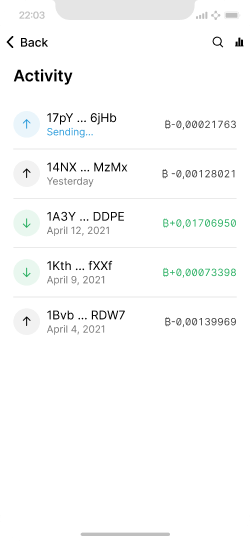
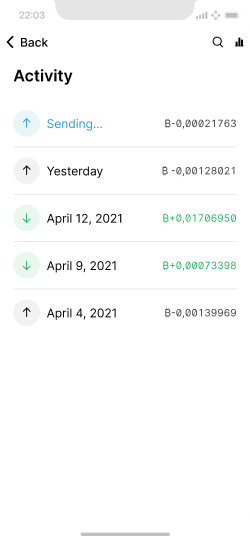
Several tweaks to the activity page
Addressing some feedback in the previous PR for the page, as well as #664 and #660.

- Fixed the link preview image & a link
- Added the page to the Payments section intro page
- Added written design considerations
- Removed payment IDs from the default/fallback design
- Added 2 screens to the search & export paragraph to discuss storing data from invoices, as well as annotation options in payment processing screens

diff --git a/guide/payments/activity.md b/guide/payments/activity.md
@@ -11,10 +11,16 @@ image_base: /assets/images/guide/payments/activity/
 imagesBasics:
     - file: activity
       alt:
-      caption: A purely technical perspective of a transaction list.
+      caption: A minimal transaction list that avoids the display of technical details.
     - file: annotated-activity
       alt:
-      caption: Annotated transactions capture a much richer story for users.
+      caption: If users annotate transactions well, they see much richer history.
+    - file: semi-annotated-activity
+      alt:
+      caption: Unless a user is thorough about organization, they will see a mix of annotated activity and raw transaction information.
+    - file: activity-ids
+      alt:
+      caption: If your users are likely to rely on addresses or Lightning invoice IDs to identify payments, you may decide to show them. Always consider your users.
 imagesGrouping:
     - file: micropayments
       alt:
@@ -29,6 +35,12 @@ imagesSearch:
     - file: tips
       alt:
       caption: Wallets can support users in organizing transactions more easily.
+    - file: invoice
+      alt:
+      caption: If an invoice includes a description or other useful data (e.g. [BOLT 11](https://github.com/lightning/bolts/blob/master/11-payment-encoding.md#rationale-2)), make sure to store it.
+    - file: sending
+      alt:
+      caption: Make it easy to add meta data when a user sends or receives a transaction, as it is top-of-mind at that moment.
 imagesReceive:
     - file: receive-transaction
       alt:
@@ -74,6 +86,19 @@ Every wallet includes a list of transactions that allow the users to see who the
 On a technical level, a transaction is a transfer of a specific amount between two addresses at a given time. But as human beings, we think of a transaction as a grocery store purchase, a mortgage payment, or paying back a friend for lunch. We should strive to let users capture these additional layers of meaning so they can more intuitively navigate and work with their transaction history.
 
 {% include image-gallery.html pages = page.imagesBasics %}
+
+##### Design considerations
+
+Activity is a utility screen where a user wants to quickly browse a data set to see what's new, find something specific, identify patterns, etc. Be deliberate with every detail and avoid adding anything that adds visual interest without signal, unless you have good reason to.
+
+Following are some of the design decisions in the screens above:
+
+- Received amounts are green, which is typically a positive connotation. Highlighting sent amounts red seems like a logical follow-on decisions, but this is not necessary as there is enough contrast already. Red can remain the color associated with errors.
+- Adding a plus or minus next to amounts is helpful for the color-blind, as well as general readability & usability.
+- Fallback icons are designed to be subtle and useful by indicating whether bitcoin was sent or received, and the status of the transaction. When they are not shown, because there's a contact image displayed instead, no information is lost. Showing a bitcoin symbol instead, for example, would be visually distracting without providing any useful information.
+- The formatting guidelines in [Units & Symbols]({{ '/guide/payments/units-and-symbols/' | relative_url }}) are applied.
+
+Not carefully weighing these decisions can easily result in a cluttered appearance.
 
 ### Beyond transactions
 
@@ -147,7 +172,7 @@ The activity list focuses on summarizing the top-level information, so users can
 
 ##### A payment received on-chain
 
-As with the activity list, transaction details screens should also only highlight relevant informationand options, and hide tertiary details behind extra taps.
+As with the activity list, transaction details screens should also only highlight relevant information and options, and hide tertiary details behind extra taps.
 
 {% include image-gallery.html pages = page.imagesReceive %}
 
@@ -189,7 +214,9 @@ Status indicators are important for on-chain transactions since they take longer
    layout = "float-right-desktop -background -shadow"
 %}
 
-Most intuitive for users is likely when a transaction is directly linked to a person or business. As this requires the user to tag transactions accordingly, there need to be fallback approaches that try to communicate the available technical information in ways that users can relate to. This can be in the form of text labels, or even uniquely generated icons like [Jazzicons](https://github.com/danfinlay/jazzicon).
+Most intuitive for users is likely when a transaction is directly linked to a person or business. As this requires the user to tag transactions accordingly, there need to be fallback approaches that try to communicate the available technical information in ways that users can relate to.
+
+This can be in the form of text labels, or even uniquely generated icons like [Jazzicons](https://github.com/danfinlay/jazzicon). When using visual fallbacks, be deliberate about their impact. If they draw visual attention, but don't communicate any useful information, you may want to avoid them.
 
 </div>
 
@@ -202,7 +229,7 @@ As mentioned at the top of the page, there is a lot of nuance in the display of 
 Next, we cover [privacy considerations]({{ '/guide/payments/privacy' | relative_url }}) when to consider when making bitcoin payments.
 
 {% include next-previous.html
-   previousUrl = "/guide/payments/request/send"
+   previousUrl = "/guide/payments/send/"
    previousName = "Sending bitcoin"
    nextUrl = "/guide/payments/privacy/"
    nextName = "Payments privacy"

diff --git a/guide/payments/introduction.md b/guide/payments/introduction.md
@@ -48,6 +48,12 @@ An introduction to how sending bitcoin works.
 
 ---
 
+### [Activity]({{ '/guide/payments/activity/' | relative_url }})
+
+A look at how we can let users conveniently browse and work with their payment history and other application activity.
+
+---
+
 ### [Privacy]({{ '/guide/payments/privacy/' | relative_url }})
 
 An overview of how to help users maintain transaction privacy with bitcoin.
